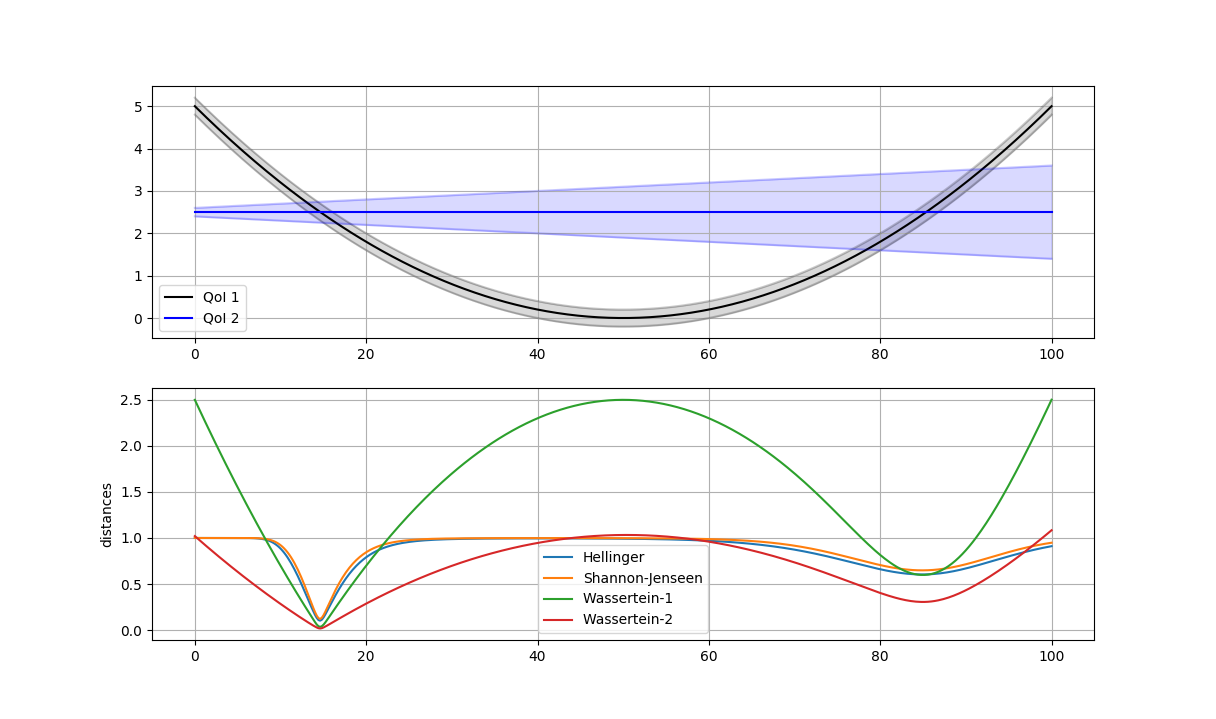
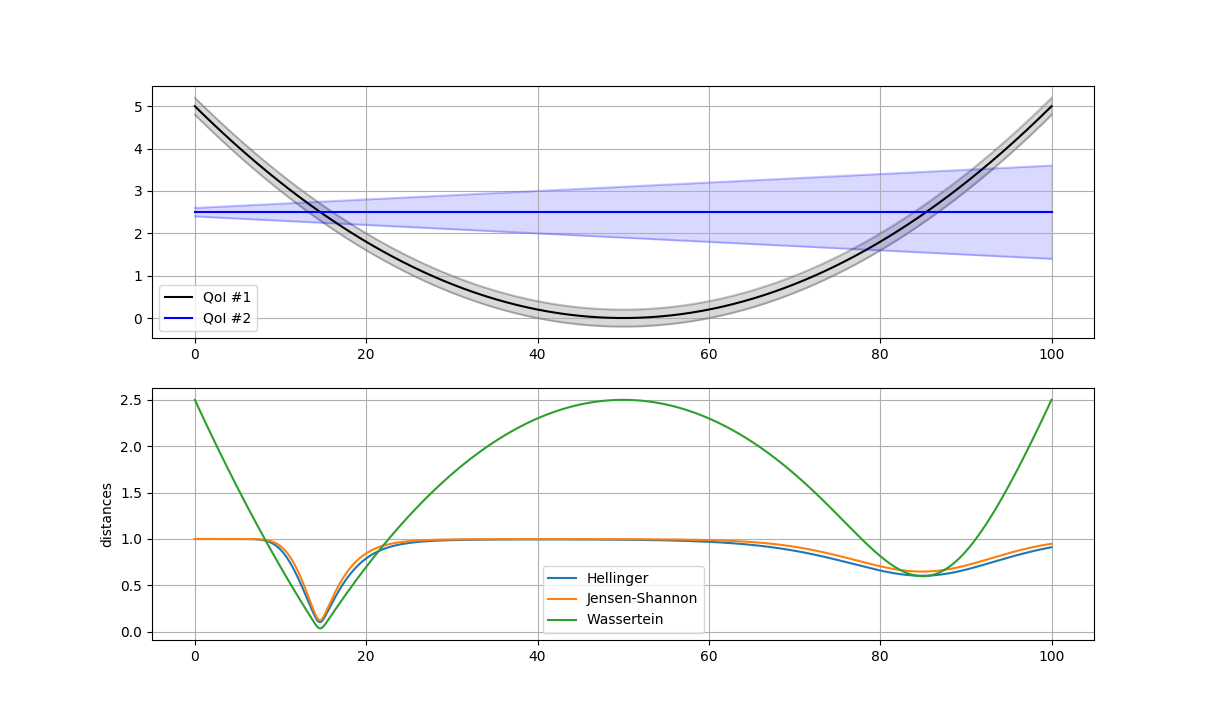
update tutorial

diff --git a/docs/tutorial_files/validate_similarities.py b/docs/tutorial_files/validate_similarities.py
@@ -53,16 +53,12 @@ if __name__ == "__main__":
     dh = validater.compare(pdf1, pdf2)
 
     # Jensen-Shannon distance
-    validater = uq.comparison.ValidateSimilarityShannonJensen()
+    validater = uq.comparison.ValidateSimilarityJensenShannon()
     dj = validater.compare(pdf1, pdf2)
 
-    # Wasserstein-1 distance
-    validater = uq.comparison.ValidateSimilarityWasserstein1()
-    dw1 = validater.compare(cdf1, cdf2)
-
-    # Wasserstein-2 distance
-    validater = uq.comparison.ValidateSimilarityWasserstein2()
-    dw2 = validater.compare(cdf1, cdf2)
+    # Wasserstein distance
+    validater = uq.comparison.ValidateSimilarityWasserstein()
+    dw = validater.compare(cdf1, cdf2)
 
     # Visualisations
     m1 = (y - 50.)**2 / 500
@@ -86,9 +82,8 @@ if __name__ == "__main__":
     axs[0].grid()
 
     axs[1].plot(y, dh, label="Hellinger")
-    axs[1].plot(y, dj, label="Shannon-Jenseen")
-    axs[1].plot(y, dw1, label="Wassertein-1")
-    axs[1].plot(y, dw2, label="Wassertein-2")
+    axs[1].plot(y, dj, label="Jensen-Shannon")
+    axs[1].plot(y, dw, label="Wassertein")
 
     axs[1].set_ylabel("distances")
     axs[1].legend()

diff --git a/docs/validate_similarities.rst b/docs/validate_similarities.rst
@@ -25,7 +25,7 @@ Validations metrics
 -------------------
 
 In EasyVVUQ, we implemented the calculation of four different divergence measures:
-Hellinger, Jensen-Shannon, Wasserstein-1 and Wasserstein-2 (cf. references below for more details). This allows us to compute distances between two QoI distributions.
+Hellinger, Jensen-Shannon and Wasserstein (cf. references below for more details). This allows us to compute distances between two QoI distributions.
 
 QoI distributions
 -----------------
